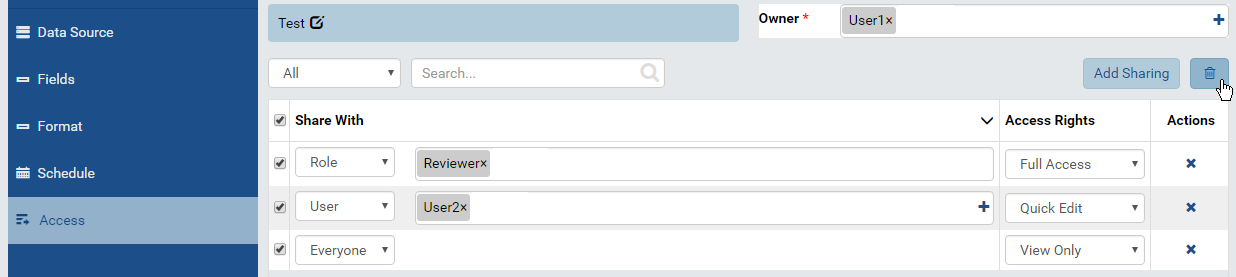
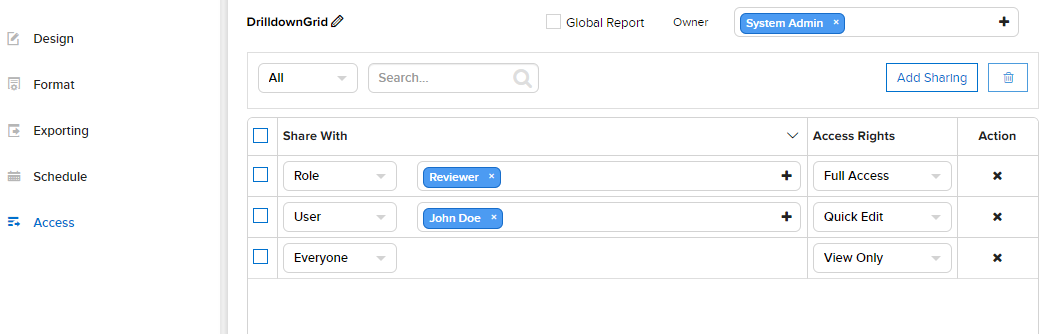
IZ-28527: Updated documentation if access rights for global reports.

diff --git a/ui/doc_report_designer_access.rst b/ui/doc_report_designer_access.rst
@@ -23,7 +23,7 @@ View List of Sharings
    .. _Report_Designer_Access:
 
    .. figure:: /_static/images/Report_Designer_Access.png
-      :width: 600px
+      :width: 1050px
 
       Report Designer - Access |br|
 
@@ -44,18 +44,38 @@ Add a Sharing
 
 #. Click the Add Sharing button above the list to add a new row in the
    list:
-#. Select the type of people to share with: Everyone, Role or User.
-#. Select the specific Role or User (not applied for Everyone option).
+#. Select the type of user group to share with: Everyone, Role, User or Tenant (for Global reports only).
+#. Select the specific Tenant, Role or User (not applied for Everyone option).
 
-   -  For Role, select a role from the drop-down list.
-   -  For User, click the plus icon to open All User pop-up.
+   *  For Tenant, click the plus icon to open Select Tenant pop-up.
+
+      .. figure:: /_static/images/Access_Rights_Tenants.png
+         :width: 593px
+
+      #. Select one or more tenants or tenant groups.
+      #. Click OK to close the pop-up. |br|
+
+   *  For Role, click the plus icon to open All Roles pop-up.
+
+      .. figure:: /_static/images/Access_Rights_Roles.png
+         :width: 593px
+
+      #. Type a partial name into the search box and click the search
+         icon (🔍).
+      #. Only matching roles will be displayed.
+      #. Select one or more roles then click OK to close the pop-up. |br|
+
+   *  For User, click the plus icon to open All User pop-up.
+
+      .. figure:: /_static/images/Access_Rights_Users.png
+         :width: 895px
 
       #. Select either User Name, Email Address or Role to search for.
          Select All to search for all fields.
       #. Type a partial name into the search box and click the search
          icon (🔍).
       #. Only matching users will be displayed.
-      #. Select one more more users then click OK to close the pop-up.
+      #. Select one or more users then click OK to close the pop-up. |br|
 
 #. Select an Access Right (See details in List of Access Rights table
    below).
@@ -68,10 +88,12 @@ Add a Sharing
    *  - **Share With Value**
       - Specific User
       - Specific Role
+      - Specific Tenant or Tenant Group
       - Everyone
    *  - **Interaction**
       - All roles of User
       - This Role
+      - All roles of tenant/tenant group |br| (for Global reports only)
       - All roles of tenant/system
 
 
